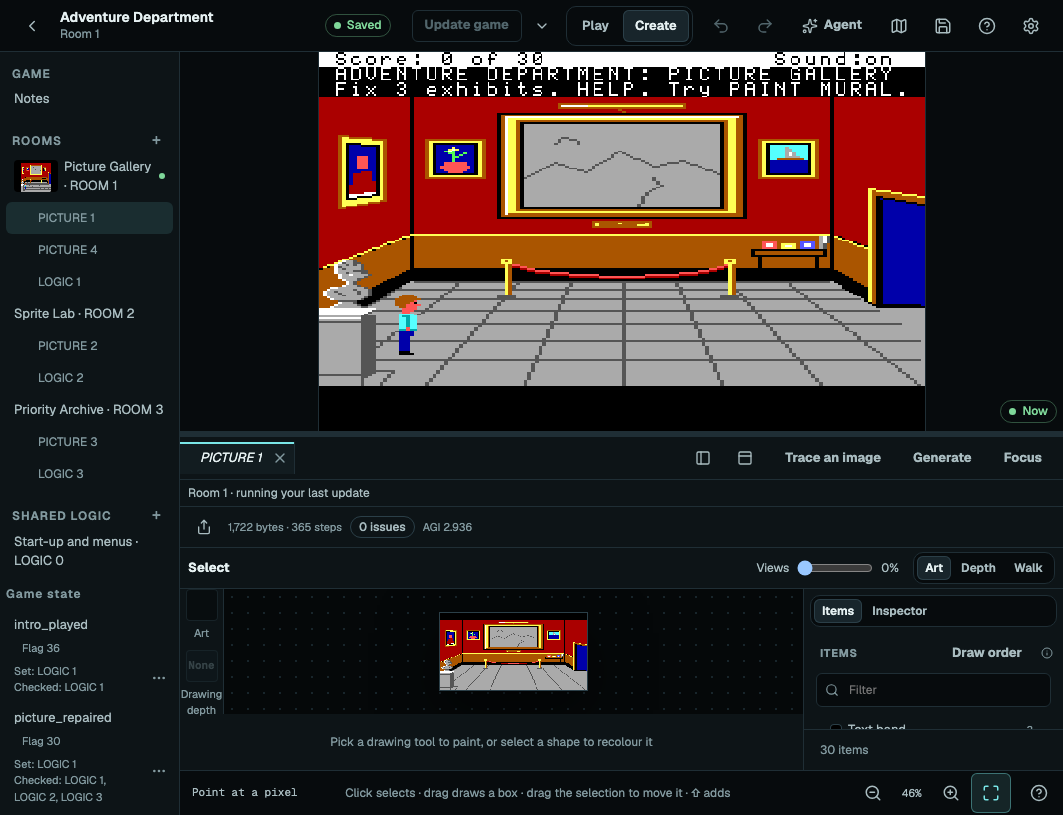
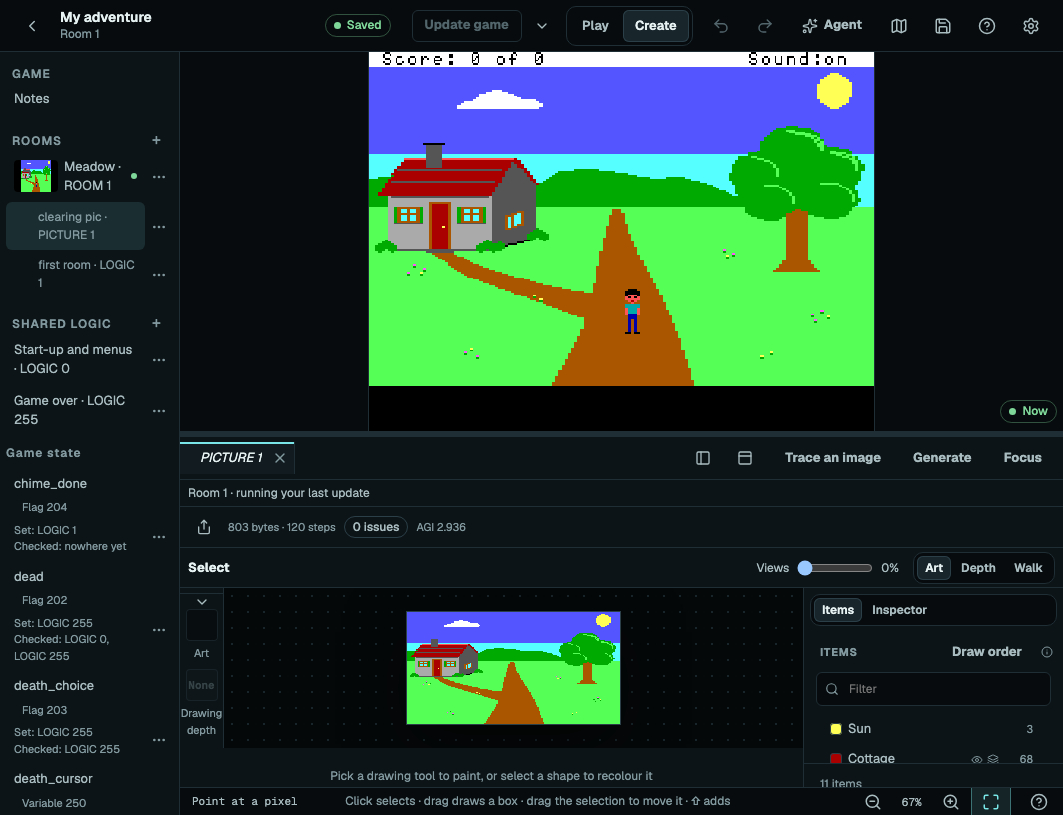
Update the lane report with the CI run and canvas-floor follow-up

diff --git a/logs/rc4-g1-report.md b/logs/rc4-g1-report.md
@@ -1,14 +1,18 @@
 # rc4-g1 — RoomStudio debris and window fit
 
-Verdict: green on all selective gates; ready for integration after CI. One
-commit on `lane/rc4-g1` off `rc/1.2-rc.4` (7ef1e74): Room Studio is now
-workspace-native only — the standalone top bar, Keep/exit chain, local
-assist panel, focus mode and every `embedded` branch are gone, and the
-editor grid scrolls instead of clipping its controls. Deleted
-`StudioTopBar.vue` and `StudioLockChip.vue`; the shared assist modules stay
-for Sprite Studio. Gates: app+root typecheck, eslint, prettier, knip,
-lint:ast, lint:deps, lint:tokens, build+check:bundle, 132 affected e2e
-tests on one worker, e2e:perf — all pass under Node 22.23.3.
+Verdict: green — full Linux CI run
+https://github.com/monotio/agi/actions/runs/37479513513 passed all jobs
+(static checks, unit tests, build, 10 chromium shards, 3 webkit-desktop
+shards, webkit phone, timing budgets, storage benchmark) on the head
+commit. Three commits on `lane/rc4-g1` off `rc/1.2-rc.4` (7ef1e74): Room Studio
+is now workspace-native only — the standalone top bar, Keep/exit chain,
+local assist panel, focus mode and every `embedded` branch are gone, and
+the editor grid scrolls instead of clipping its controls. Deleted
+`StudioTopBar.vue` and `StudioLockChip.vue`; the shared assist modules
+stay for Sprite Studio. Gates: app+root typecheck, eslint, prettier,
+knip, lint:ast, lint:deps, lint:tokens, build+check:bundle, over 100
+affected e2e tests on one worker, e2e:perf — all pass under Node
+22.23.3.
 
 ## A — Standalone-only branches removed
 
@@ -76,16 +80,20 @@ Fix, in `RoomStudio.vue` CSS:
 - Status row `28px` → `minmax(28px, auto)`; it grows to fit its controls.
 - `.studio` gets `overflow-y: auto`; the status bar is `position: sticky;
 bottom: 0` so it stays visible while the studio scrolls.
-- The canvas row stays `minmax(0, 1fr)`: the picture shrinks first; only
-  controls take fixed room.
+- The canvas row is `minmax(160px, 1fr)`: the picture shrinks first, then
+  the studio scrolls. The floor matters because the side panel rides the
+  canvas row — a `0` floor let a 308px-tall studio squeeze the Scene
+  list's tree to 14px (CI shard 5/10: `picture storyboard 1063` expected
+  ≥30px). With the floor the tree keeps ≥1 row and the studio scrolls
+  ~17px, exactly like the phone layout's `minmax(180px, 1fr)` already did.
 - The ≤600px phone layout keeps flexible rows
   (`minmax(180px,1fr)` canvas, `minmax(240px,0.8fr)` side panel,
   `minmax(28px,auto)` status) with the side panel below the palette.
 
 Verified at 1440×900, 1063×815 side-by-side, 1063×815 stacked and
 390×844: zero controls outside the studio box (`clipped: []` sweep over
-every button/radio/input/scrubber), `scrollHeight === clientHeight`
-except phone where the studio scrolls as designed. Screenshots:
+every button/radio/input/scrubber); the studio scrolls ~17px stacked and
+at phone size, with the sticky status bar always in view. Screenshots:
 `logs/rc4-g1-shots/g1-before-*.png` (earlier session) vs
 `g1-after-{1440x900,1063x815,390x844}.png` and
 `g1-after-stacked-1063x815.png`.
